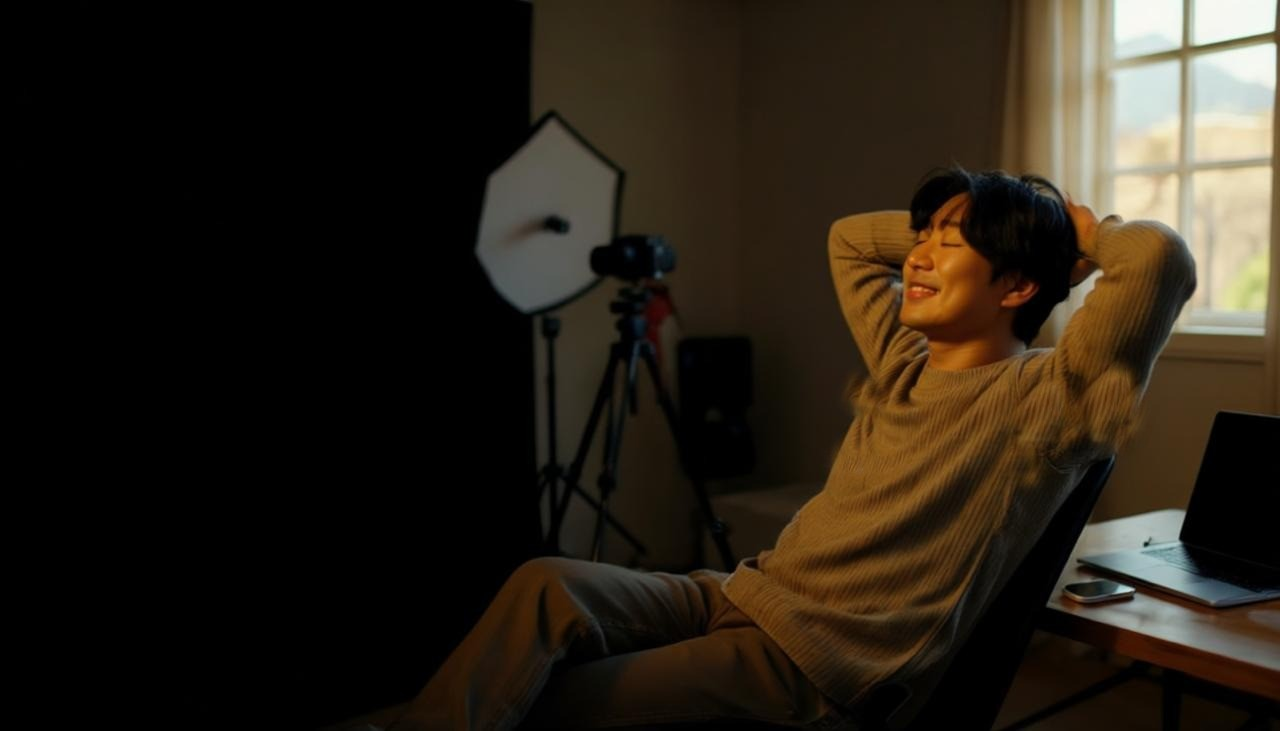
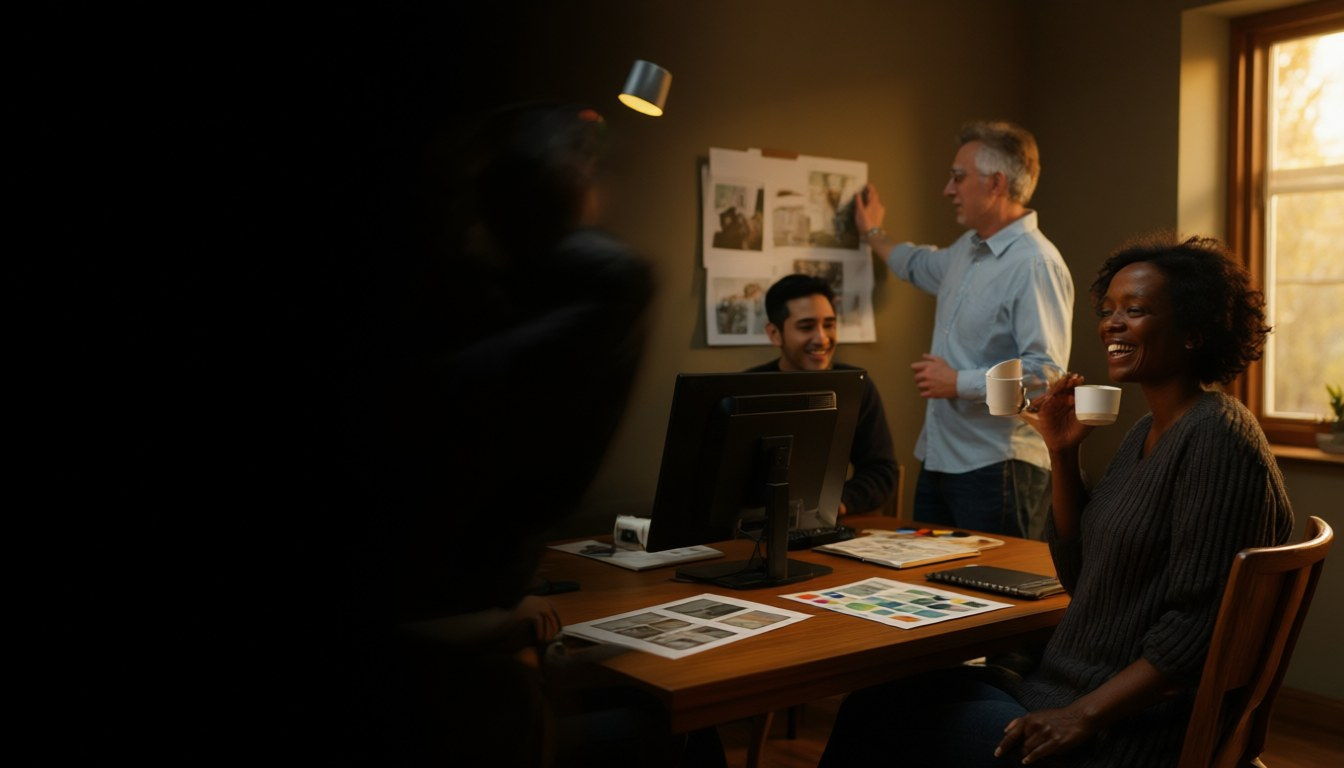
beark: hero photo → agency people (warm studio cut), KO+EN

diff --git a/_src/beark.html b/_src/beark.html
@@ -237,7 +237,7 @@ footer .legal p{font-size:12px;line-height:1.7;color:var(--fg-3)}
 .hero.photo{position:relative;padding:0;min-height:min(86vh,760px);display:flex;align-items:flex-end;overflow:hidden;background:#000;color:#EDEDED;
   --bg:#000000;--fg:#EDEDED;--fg-2:#C4C4C4;--fg-3:#A1A1A1;--line:#2A2A2A;--line-2:#5A5A5A}
 /* 11-16: 사진을 자르지 않는다 — 높이에 맞춰 통째로 오른쪽에 붙인다 (넓은 화면의 남는 왼쪽 = 검정) */
-.hero-pic{position:absolute;z-index:0;right:0;top:0;height:100%;aspect-ratio:1280/731}
+.hero-pic{position:absolute;z-index:0;right:0;top:0;height:100%;aspect-ratio:1344/768}
 .hero-bg{display:block;width:100%;height:100%;object-fit:cover}
 .hero-shade{position:absolute;inset:0;background:linear-gradient(90deg,#000 0%,rgba(0,0,0,.8) 14%,rgba(0,0,0,.6) 40%,rgba(0,0,0,0) 66%)}
 .hero-copy{position:relative;z-index:2;width:100%;padding-top:64px;padding-bottom:56px}
@@ -295,7 +295,7 @@ footer .legal p{font-size:12px;line-height:1.7;color:var(--fg-3)}
 <main>
 <!--@home-->
 <div class="hero photo">
-  <div class="hero-pic"><img class="hero-bg" src="/beark/media/beark-hero.jpg" width="1280" height="731" alt=""><div class="hero-shade"></div></div>
+  <div class="hero-pic"><img class="hero-bg" src="/beark/media/beark-hero.jpg?v=3" width="1344" height="768" alt=""><div class="hero-shade"></div></div>
   <div class="wrap hero-copy">
       <div>
       <span class="l2">오피스 에이전트 툴</span>

diff --git a/beark/ko.html b/beark/ko.html
@@ -205,7 +205,7 @@ footer .legal p{font-size:12px;line-height:1.7;color:var(--fg-3)}
 .hero.photo{position:relative;padding:0;min-height:min(86vh,760px);display:flex;align-items:flex-end;overflow:hidden;background:#000;color:#EDEDED;
   --bg:#000000;--fg:#EDEDED;--fg-2:#C4C4C4;--fg-3:#A1A1A1;--line:#2A2A2A;--line-2:#5A5A5A}
 /* 11-16: 사진을 자르지 않는다 — 높이에 맞춰 통째로 오른쪽에 붙인다 (넓은 화면의 남는 왼쪽 = 검정) */
-.hero-pic{position:absolute;z-index:0;right:0;top:0;height:100%;aspect-ratio:1280/731}
+.hero-pic{position:absolute;z-index:0;right:0;top:0;height:100%;aspect-ratio:1344/768}
 .hero-bg{display:block;width:100%;height:100%;object-fit:cover}
 .hero-shade{position:absolute;inset:0;background:linear-gradient(90deg,#000 0%,rgba(0,0,0,.8) 14%,rgba(0,0,0,.6) 40%,rgba(0,0,0,0) 66%)}
 .hero-copy{position:relative;z-index:2;width:100%;padding-top:64px;padding-bottom:56px}
@@ -262,7 +262,7 @@ footer .legal p{font-size:12px;line-height:1.7;color:var(--fg-3)}
 
 <main>
 <div class="hero photo">
-  <div class="hero-pic"><img class="hero-bg" src="/beark/media/beark-hero.jpg" width="1280" height="731" alt=""><div class="hero-shade"></div></div>
+  <div class="hero-pic"><img class="hero-bg" src="/beark/media/beark-hero.jpg?v=3" width="1344" height="768" alt=""><div class="hero-shade"></div></div>
   <div class="wrap hero-copy">
       <div>
       <span class="l2">오피스 에이전트 툴</span>

diff --git a/beark/index.html b/beark/index.html
@@ -205,7 +205,7 @@ footer .legal p{font-size:12px;line-height:1.7;color:var(--fg-3)}
 .hero.photo{position:relative;padding:0;min-height:min(86vh,760px);display:flex;align-items:flex-end;overflow:hidden;background:#000;color:#EDEDED;
   --bg:#000000;--fg:#EDEDED;--fg-2:#C4C4C4;--fg-3:#A1A1A1;--line:#2A2A2A;--line-2:#5A5A5A}
 /* 11-16: 사진을 자르지 않는다 — 높이에 맞춰 통째로 오른쪽에 붙인다 (넓은 화면의 남는 왼쪽 = 검정) */
-.hero-pic{position:absolute;z-index:0;right:0;top:0;height:100%;aspect-ratio:1280/731}
+.hero-pic{position:absolute;z-index:0;right:0;top:0;height:100%;aspect-ratio:1344/768}
 .hero-bg{display:block;width:100%;height:100%;object-fit:cover}
 .hero-shade{position:absolute;inset:0;background:linear-gradient(90deg,#000 0%,rgba(0,0,0,.8) 14%,rgba(0,0,0,.6) 40%,rgba(0,0,0,0) 66%)}
 .hero-copy{position:relative;z-index:2;width:100%;padding-top:64px;padding-bottom:56px}
@@ -262,7 +262,7 @@ footer .legal p{font-size:12px;line-height:1.7;color:var(--fg-3)}
 
 <main>
 <div class="hero photo">
-  <div class="hero-pic"><img class="hero-bg" src="/beark/media/beark-hero.jpg" width="1280" height="731" alt=""><div class="hero-shade"></div></div>
+  <div class="hero-pic"><img class="hero-bg" src="/beark/media/beark-hero.jpg?v=3" width="1344" height="768" alt=""><div class="hero-shade"></div></div>
   <div class="wrap hero-copy">
       <div>
       <span class="l2">Office agent tool</span>

diff --git a/beark/formats.html b/beark/formats.html
@@ -205,7 +205,7 @@ footer .legal p{font-size:12px;line-height:1.7;color:var(--fg-3)}
 .hero.photo{position:relative;padding:0;min-height:min(86vh,760px);display:flex;align-items:flex-end;overflow:hidden;background:#000;color:#EDEDED;
   --bg:#000000;--fg:#EDEDED;--fg-2:#C4C4C4;--fg-3:#A1A1A1;--line:#2A2A2A;--line-2:#5A5A5A}
 /* 11-16: 사진을 자르지 않는다 — 높이에 맞춰 통째로 오른쪽에 붙인다 (넓은 화면의 남는 왼쪽 = 검정) */
-.hero-pic{position:absolute;z-index:0;right:0;top:0;height:100%;aspect-ratio:1280/731}
+.hero-pic{position:absolute;z-index:0;right:0;top:0;height:100%;aspect-ratio:1344/768}
 .hero-bg{display:block;width:100%;height:100%;object-fit:cover}
 .hero-shade{position:absolute;inset:0;background:linear-gradient(90deg,#000 0%,rgba(0,0,0,.8) 14%,rgba(0,0,0,.6) 40%,rgba(0,0,0,0) 66%)}
 .hero-copy{position:relative;z-index:2;width:100%;padding-top:64px;padding-bottom:56px}

diff --git a/beark/ko-formats.html b/beark/ko-formats.html
@@ -205,7 +205,7 @@ footer .legal p{font-size:12px;line-height:1.7;color:var(--fg-3)}
 .hero.photo{position:relative;padding:0;min-height:min(86vh,760px);display:flex;align-items:flex-end;overflow:hidden;background:#000;color:#EDEDED;
   --bg:#000000;--fg:#EDEDED;--fg-2:#C4C4C4;--fg-3:#A1A1A1;--line:#2A2A2A;--line-2:#5A5A5A}
 /* 11-16: 사진을 자르지 않는다 — 높이에 맞춰 통째로 오른쪽에 붙인다 (넓은 화면의 남는 왼쪽 = 검정) */
-.hero-pic{position:absolute;z-index:0;right:0;top:0;height:100%;aspect-ratio:1280/731}
+.hero-pic{position:absolute;z-index:0;right:0;top:0;height:100%;aspect-ratio:1344/768}
 .hero-bg{display:block;width:100%;height:100%;object-fit:cover}
 .hero-shade{position:absolute;inset:0;background:linear-gradient(90deg,#000 0%,rgba(0,0,0,.8) 14%,rgba(0,0,0,.6) 40%,rgba(0,0,0,0) 66%)}
 .hero-copy{position:relative;z-index:2;width:100%;padding-top:64px;padding-bottom:56px}

diff --git a/beark/ko-news.html b/beark/ko-news.html
@@ -205,7 +205,7 @@ footer .legal p{font-size:12px;line-height:1.7;color:var(--fg-3)}
 .hero.photo{position:relative;padding:0;min-height:min(86vh,760px);display:flex;align-items:flex-end;overflow:hidden;background:#000;color:#EDEDED;
   --bg:#000000;--fg:#EDEDED;--fg-2:#C4C4C4;--fg-3:#A1A1A1;--line:#2A2A2A;--line-2:#5A5A5A}
 /* 11-16: 사진을 자르지 않는다 — 높이에 맞춰 통째로 오른쪽에 붙인다 (넓은 화면의 남는 왼쪽 = 검정) */
-.hero-pic{position:absolute;z-index:0;right:0;top:0;height:100%;aspect-ratio:1280/731}
+.hero-pic{position:absolute;z-index:0;right:0;top:0;height:100%;aspect-ratio:1344/768}
 .hero-bg{display:block;width:100%;height:100%;object-fit:cover}
 .hero-shade{position:absolute;inset:0;background:linear-gradient(90deg,#000 0%,rgba(0,0,0,.8) 14%,rgba(0,0,0,.6) 40%,rgba(0,0,0,0) 66%)}
 .hero-copy{position:relative;z-index:2;width:100%;padding-top:64px;padding-bottom:56px}

diff --git a/beark/ko-pricing.html b/beark/ko-pricing.html
@@ -205,7 +205,7 @@ footer .legal p{font-size:12px;line-height:1.7;color:var(--fg-3)}
 .hero.photo{position:relative;padding:0;min-height:min(86vh,760px);display:flex;align-items:flex-end;overflow:hidden;background:#000;color:#EDEDED;
   --bg:#000000;--fg:#EDEDED;--fg-2:#C4C4C4;--fg-3:#A1A1A1;--line:#2A2A2A;--line-2:#5A5A5A}
 /* 11-16: 사진을 자르지 않는다 — 높이에 맞춰 통째로 오른쪽에 붙인다 (넓은 화면의 남는 왼쪽 = 검정) */
-.hero-pic{position:absolute;z-index:0;right:0;top:0;height:100%;aspect-ratio:1280/731}
+.hero-pic{position:absolute;z-index:0;right:0;top:0;height:100%;aspect-ratio:1344/768}
 .hero-bg{display:block;width:100%;height:100%;object-fit:cover}
 .hero-shade{position:absolute;inset:0;background:linear-gradient(90deg,#000 0%,rgba(0,0,0,.8) 14%,rgba(0,0,0,.6) 40%,rgba(0,0,0,0) 66%)}
 .hero-copy{position:relative;z-index:2;width:100%;padding-top:64px;padding-bottom:56px}

diff --git a/beark/ko-tutorial.html b/beark/ko-tutorial.html
@@ -205,7 +205,7 @@ footer .legal p{font-size:12px;line-height:1.7;color:var(--fg-3)}
 .hero.photo{position:relative;padding:0;min-height:min(86vh,760px);display:flex;align-items:flex-end;overflow:hidden;background:#000;color:#EDEDED;
   --bg:#000000;--fg:#EDEDED;--fg-2:#C4C4C4;--fg-3:#A1A1A1;--line:#2A2A2A;--line-2:#5A5A5A}
 /* 11-16: 사진을 자르지 않는다 — 높이에 맞춰 통째로 오른쪽에 붙인다 (넓은 화면의 남는 왼쪽 = 검정) */
-.hero-pic{position:absolute;z-index:0;right:0;top:0;height:100%;aspect-ratio:1280/731}
+.hero-pic{position:absolute;z-index:0;right:0;top:0;height:100%;aspect-ratio:1344/768}
 .hero-bg{display:block;width:100%;height:100%;object-fit:cover}
 .hero-shade{position:absolute;inset:0;background:linear-gradient(90deg,#000 0%,rgba(0,0,0,.8) 14%,rgba(0,0,0,.6) 40%,rgba(0,0,0,0) 66%)}
 .hero-copy{position:relative;z-index:2;width:100%;padding-top:64px;padding-bottom:56px}

diff --git a/beark/ko-why.html b/beark/ko-why.html
@@ -205,7 +205,7 @@ footer .legal p{font-size:12px;line-height:1.7;color:var(--fg-3)}
 .hero.photo{position:relative;padding:0;min-height:min(86vh,760px);display:flex;align-items:flex-end;overflow:hidden;background:#000;color:#EDEDED;
   --bg:#000000;--fg:#EDEDED;--fg-2:#C4C4C4;--fg-3:#A1A1A1;--line:#2A2A2A;--line-2:#5A5A5A}
 /* 11-16: 사진을 자르지 않는다 — 높이에 맞춰 통째로 오른쪽에 붙인다 (넓은 화면의 남는 왼쪽 = 검정) */
-.hero-pic{position:absolute;z-index:0;right:0;top:0;height:100%;aspect-ratio:1280/731}
+.hero-pic{position:absolute;z-index:0;right:0;top:0;height:100%;aspect-ratio:1344/768}
 .hero-bg{display:block;width:100%;height:100%;object-fit:cover}
 .hero-shade{position:absolute;inset:0;background:linear-gradient(90deg,#000 0%,rgba(0,0,0,.8) 14%,rgba(0,0,0,.6) 40%,rgba(0,0,0,0) 66%)}
 .hero-copy{position:relative;z-index:2;width:100%;padding-top:64px;padding-bottom:56px}

diff --git a/beark/news.html b/beark/news.html
@@ -205,7 +205,7 @@ footer .legal p{font-size:12px;line-height:1.7;color:var(--fg-3)}
 .hero.photo{position:relative;padding:0;min-height:min(86vh,760px);display:flex;align-items:flex-end;overflow:hidden;background:#000;color:#EDEDED;
   --bg:#000000;--fg:#EDEDED;--fg-2:#C4C4C4;--fg-3:#A1A1A1;--line:#2A2A2A;--line-2:#5A5A5A}
 /* 11-16: 사진을 자르지 않는다 — 높이에 맞춰 통째로 오른쪽에 붙인다 (넓은 화면의 남는 왼쪽 = 검정) */
-.hero-pic{position:absolute;z-index:0;right:0;top:0;height:100%;aspect-ratio:1280/731}
+.hero-pic{position:absolute;z-index:0;right:0;top:0;height:100%;aspect-ratio:1344/768}
 .hero-bg{display:block;width:100%;height:100%;object-fit:cover}
 .hero-shade{position:absolute;inset:0;background:linear-gradient(90deg,#000 0%,rgba(0,0,0,.8) 14%,rgba(0,0,0,.6) 40%,rgba(0,0,0,0) 66%)}
 .hero-copy{position:relative;z-index:2;width:100%;padding-top:64px;padding-bottom:56px}

diff --git a/beark/pricing.html b/beark/pricing.html
@@ -205,7 +205,7 @@ footer .legal p{font-size:12px;line-height:1.7;color:var(--fg-3)}
 .hero.photo{position:relative;padding:0;min-height:min(86vh,760px);display:flex;align-items:flex-end;overflow:hidden;background:#000;color:#EDEDED;
   --bg:#000000;--fg:#EDEDED;--fg-2:#C4C4C4;--fg-3:#A1A1A1;--line:#2A2A2A;--line-2:#5A5A5A}
 /* 11-16: 사진을 자르지 않는다 — 높이에 맞춰 통째로 오른쪽에 붙인다 (넓은 화면의 남는 왼쪽 = 검정) */
-.hero-pic{position:absolute;z-index:0;right:0;top:0;height:100%;aspect-ratio:1280/731}
+.hero-pic{position:absolute;z-index:0;right:0;top:0;height:100%;aspect-ratio:1344/768}
 .hero-bg{display:block;width:100%;height:100%;object-fit:cover}
 .hero-shade{position:absolute;inset:0;background:linear-gradient(90deg,#000 0%,rgba(0,0,0,.8) 14%,rgba(0,0,0,.6) 40%,rgba(0,0,0,0) 66%)}
 .hero-copy{position:relative;z-index:2;width:100%;padding-top:64px;padding-bottom:56px}

diff --git a/beark/tutorial.html b/beark/tutorial.html
@@ -205,7 +205,7 @@ footer .legal p{font-size:12px;line-height:1.7;color:var(--fg-3)}
 .hero.photo{position:relative;padding:0;min-height:min(86vh,760px);display:flex;align-items:flex-end;overflow:hidden;background:#000;color:#EDEDED;
   --bg:#000000;--fg:#EDEDED;--fg-2:#C4C4C4;--fg-3:#A1A1A1;--line:#2A2A2A;--line-2:#5A5A5A}
 /* 11-16: 사진을 자르지 않는다 — 높이에 맞춰 통째로 오른쪽에 붙인다 (넓은 화면의 남는 왼쪽 = 검정) */
-.hero-pic{position:absolute;z-index:0;right:0;top:0;height:100%;aspect-ratio:1280/731}
+.hero-pic{position:absolute;z-index:0;right:0;top:0;height:100%;aspect-ratio:1344/768}
 .hero-bg{display:block;width:100%;height:100%;object-fit:cover}
 .hero-shade{position:absolute;inset:0;background:linear-gradient(90deg,#000 0%,rgba(0,0,0,.8) 14%,rgba(0,0,0,.6) 40%,rgba(0,0,0,0) 66%)}
 .hero-copy{position:relative;z-index:2;width:100%;padding-top:64px;padding-bottom:56px}
